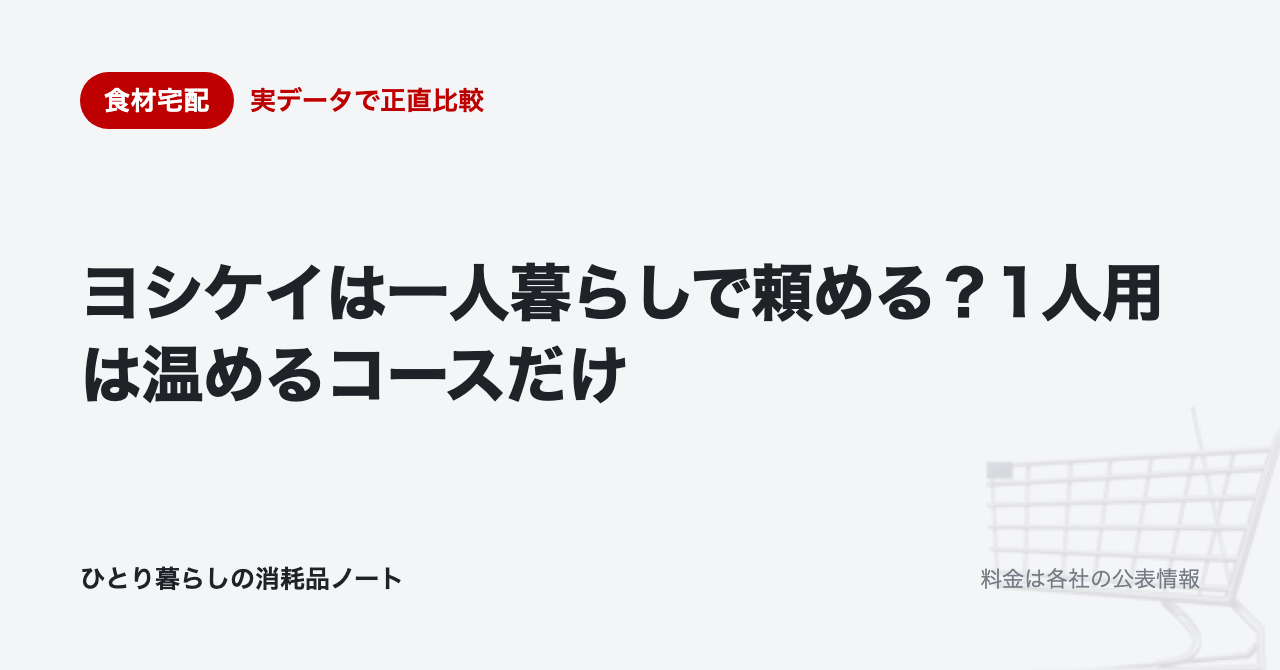
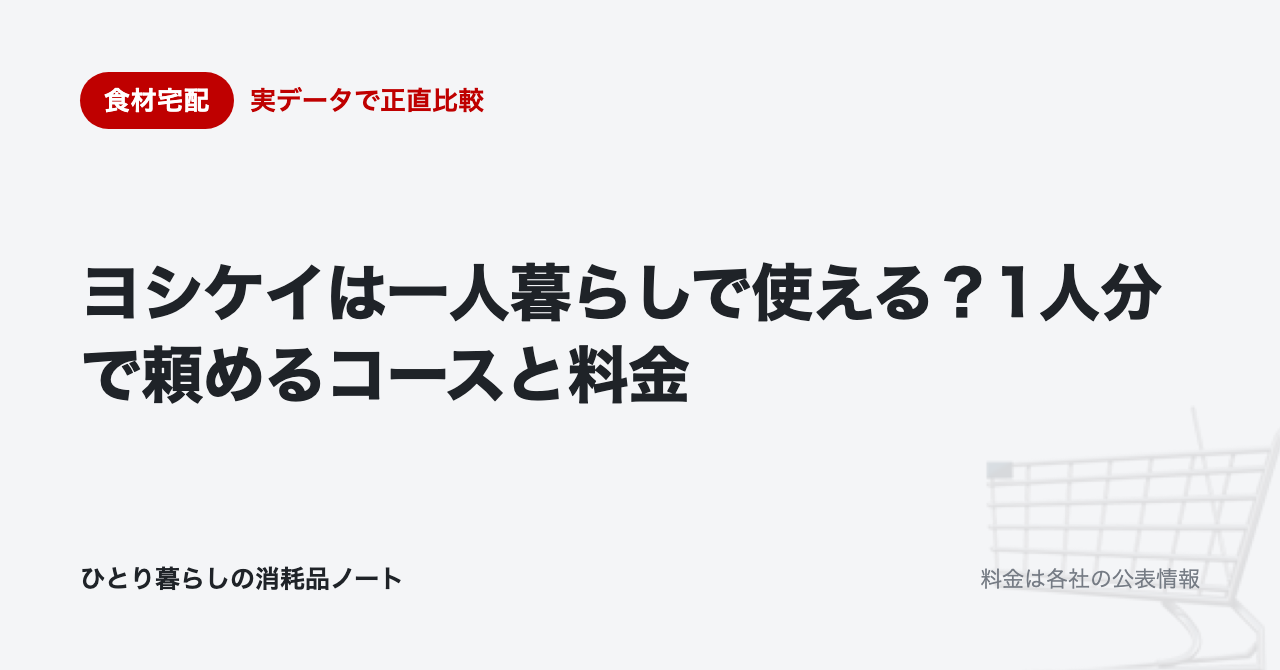
ヨシケイ記事を添削（72点）で改稿。重複を削って結論を一本化
最優先指摘は「地域差の説明を1回に集約し、結論を温めるなら1人用・
作るなら2人用に固定する」だったので、足すより削る方向で直した。

- 冒頭で結論を先出し（温めるなら1人用／作るなら2人用）
- 地域差は冒頭で一度宣言し、料金の節に4項目（コース名・料金・締切・
  取り扱い）としてまとめた。3か所に散っていた説明を1か所へ
- 「公式サイトで見つけられませんでした」の繰り返しを削除。
  表の空欄は「地域のページで確認」に変え、次の行動とセットにした
- FAQを本文の焼き直しから、本文で扱っていない疑問へ入れ替え
  （キャンセル・置き配の中身・地域で頼めないコース・配達時間・お試しの再利用）
- 「向く人／向かない人」→「使いやすいケース／使いにくいケース」
- 「効く」「面倒なところ」を具体的な記述に
- 他社比較への導線を1行に縮小
- CTAの直前に、郵便番号を入れる理由を置いた
- タイトルを「ヨシケイは一人暮らしで使える？1人分で頼めるコースと料金」に

diff --git a/pins/ledger.html b/pins/ledger.html
@@ -159,7 +159,7 @@ code,.mono{font-family:"IBM Plex Mono",ui-monospace,monospace;font-variant-numer
 <section class="day" data-slug="yoshikei" data-day="1">
 <header class="dayhead">
 <span class="daynum">01</span>
-<div class="daytitle"><h2>ヨシケイは一人暮らしで頼める？1人用は温めるコースだけ</h2></div>
+<div class="daytitle"><h2>ヨシケイは一人暮らしで使える？1人分で頼めるコースと料金</h2></div>
 <span class="daycount"><b data-done>0</b>/2</span>
 </header>
 <div class="shared">

diff --git a/content/yoshikei.md b/content/yoshikei.md
@@ -1,79 +1,83 @@
 ---
-title: ヨシケイは一人暮らしで頼める？1人用は温めるコースだけ
-description: ヨシケイを一人暮らしで使えるか、公式サイトの案内を整理しました。1人分から頼めるのはレンジや湯せんで温めるコースと冷凍弁当で、包丁を使うミールキットは2人用からです。コース名や締め切りは地域の販売会社ごとに違うため、確かめ方も書いています。
+title: ヨシケイは一人暮らしで使える？1人分で頼めるコースと料金
+description: ヨシケイは一人暮らしでも利用できます。ただし1人分から頼めるのは温めるコースと冷凍弁当で、包丁を使うミールキットは2人用からです。地域の販売会社ごとに違う点と、自分の地域の料金を確かめる手順を公式サイトの情報だけで整理しました。
 category: 食材宅配
 date: '2026-09-16'
-updated: '2026-09-16'
+updated: '2026-09-17'
 keyword: ヨシケイ
 keywordAlt: [食材宅配]
 ---
 
-ヨシケイを一人暮らしで頼もうとすると、最初に人数でつまずきます。
+ヨシケイは一人暮らしでも利用できます。ただし、**1人分から頼めるコースと、2人用からしか頼めないコースがあります。**
 
-**1人分から頼めるのは、レンジや湯せんで温めるコースと冷凍弁当です。** 包丁を使って作るミールキットは、2人用からです。
+先に結論です。
 
-この記事は、ヨシケイの公式サイトに書かれていることの整理です。**私はヨシケイを利用していません。** 味やメニューの感想は書いていません。
+```
+温めるなら   1人用（Yデリ・冷凍弁当3種）
+作るなら    2人用から（カットミールなどのミールキット）
+```
 
-料金についても先に断っておきます。全国共通の価格表を公式サイトで見つけられませんでした。ヨシケイは地域の販売会社が配達する仕組みで、コースの名前も価格も地域で違います。この記事では金額そのものより、**自分の地域の価格を確かめる手順**を書きます。
+ひとつ、前提を断っておきます。**ヨシケイは地域の販売会社が運営する仕組みで、コース名・料金・注文締切・取り扱いメニューが地域によって違います。** そのためこの記事では全国共通の価格を断定せず、自分の地域の料金を確かめる手順を書きます。
 
-## ヨシケイで1人分から頼めるもの
+この記事は公式サイトの情報の整理です。**私はヨシケイを利用していません。** 味やメニューの感想は書いていません。
 
-| メニュー | 調理のしかた | 1人分から | 公式サイトの価格表示 |
-|---|---|---|---|
-| Yデリ（地域によりタイムリーミール） | レンジ・湯せんで約10分 | 頼める | 見つかりませんでした |
-| シンプルミール（冷凍弁当） | 温めるだけ | 頼める | 1食あたり約430円 |
-| ベジミール（冷凍弁当） | 温めるだけ | 頼める | 見つかりませんでした |
-| ヘルシーミール（冷凍弁当） | 温めるだけ | 頼める | 見つかりませんでした |
-| ミールキット（カットミールなど） | 10〜15分の調理 | **2人用から** | 見つかりませんでした |
+## ヨシケイで1人分から頼めるコース
 
-> **出どころ**：ヨシケイ本部の「単品・冷凍弁当」「Smile & table」、ヨシケイ茨城の「お1人様からご利用いただけるメニュー」、ヨシケイ高知の案内です。2026年9月16日に確認しました。
->
-> **メニュー名と取り扱いは、地域の販売会社で違います。** 同じ「温めるコース」が、本部のサイトではタイムリーミール、高知や茨城ではYデリという名前で載っていました。自分の地域で何が頼めるかは、郵便番号を入れて確認してください。
+1人分から注文できるのは、次の4つです。
 
-冷凍弁当が3種類あるので、**一人暮らしで選べる幅は「温めるだけ」の中では広い**です。逆に、自分で作るコースを1人分で頼むことはできません。
+| メニュー | 調理のしかた | 公式に載っていた価格 |
+|---|---|---|
+| Yデリ（地域によりタイムリーミール） | レンジ・湯せんで約10分 | 地域のページで確認 |
+| シンプルミール（冷凍弁当） | 温めるだけ | 1食あたり約430円 |
+| ベジミール（冷凍弁当） | 温めるだけ | 地域のページで確認 |
+| ヘルシーミール（冷凍弁当） | 温めるだけ | 地域のページで確認 |
 
-## 作るミールキットは2人用からです
+冷凍弁当は**シンプルミール・ベジミール・ヘルシーミール**の3種類です。自炊せずに済ませたい一人暮らしなら、この3つとYデリが候補になります。
+
+Yデリはレンジか湯せんで、10分程度で3品そろう形です。冷凍弁当は主食なしのおかず弁当で、1食単位で頼めます。
+
+## ミールキットは2人用から
 
 ヨシケイ高知の案内には「1人用はすまいるごはんの[Yデリ]をご用意しております」と書かれています。5人以上で使う場合は、2〜4人用を組み合わせて注文する形です。
 
 つまり人数の単位は、1人用（温めるコース・冷凍弁当）か、2〜4人用（作るコース）に分かれています。
 
-一人暮らしで、カットミールのような作るコースを使いたい場合は、2人用を頼むしかありません。費用も食材の量も2人分です。
+**一人暮らしでカットミールのような作るコースを使いたい場合は、2人用を頼むしかありません。** 費用も食材の量も2人分になります。
 
-## コース名も締め切りも、地域の販売会社で違います
+## ヨシケイの料金は地域によって違う
 
-ここが一人暮らしの人にとって面倒なところです。私が公式サイトを見た範囲でも、地域によって書かれている内容が違いました。
+冒頭で断ったとおり、ヨシケイは地域の販売会社ごとに条件が変わります。私が公式サイトを見た範囲では、次の4つに差がありました。
 
 ```
-温めるコースの名前
-  ヨシケイ本部       タイムリーミール
-  ヨシケイ高知・茨城   Yデリ
-
-注文の締め切り
-  お試し5daysのページ  配達日の前週水曜17時まで
-  ヨシケイ大宮        前週水曜が注文締切。締切後も中3日あれば対応
-
-価格
-  全国共通の価格表は、公式サイトで見つけられませんでした
+コース名     本部はタイムリーミール、高知と茨城はYデリ（同じ温めるコース）
+料金        全国共通の価格表は確認できず。公式に金額が載っていたのは
+            冷凍弁当のシンプルミール（1食あたり約430円）だけ
+注文締切     お試し5daysのページは前週水曜17時まで
+            ヨシケイ大宮は前週水曜が注文締切で、締切後も中3日あれば対応
+取り扱い     1人分から頼めるメニューの並びが、販売会社のページごとに違う
 ```
 
-**自分の地域のページを開くのが先です。** 郵便番号でエリアと販売会社が判別される仕組みなので、そこで表示された価格とメニューが、自分が払う金額です。
+**料金を知る手順は1つです。郵便番号を入れて、自分の地域のページを開いてください。** 郵便番号でエリアと販売会社が判別される仕組みなので、そこに表示された価格が自分が払う金額です。
 
-## 入会金と配達料は、公式サイトで「なし」と書かれています
+他社と同じ表に並べて比べたい場合、ヨシケイだけは全国一律の数字が出せません。そこが比較しづらい点です。
+
+## 一人暮らしで知っておきたい配達と置き配の仕組み
 
 ここは全国共通で書かれていた項目です。
 
-- **入会金と配達料はかかりません。** メニューブックも無料で届くと書かれています
+- **入会金と配達料はかかりません。** メニューブックも無料で届きます
 - **配達は毎日**で、保冷性のあるクールBOXに食材と保冷剤を入れて届きます
-- **置き配ができます。** 不在の場合は鍵付きのあんしんBOXを貸してもらえます
+- **置き配ができます。** 不在の場合は、鍵付きのあんしんBOXを貸してもらえます
 - 配達の時間は、午前10時から午後5時ごろの間です
 - 1日単位で頼めるメニューと、1週間おまかせのメニューがあります
 
-一人暮らしで効くのは、**毎日その日の分だけ届く**点です。冷蔵庫が小さくても置き場所に困りません。逆に、平日の日中に受け取る場所がないと使いにくい仕組みです。
+一人暮らしでメリットになりやすいのは、**毎日その日の分だけ届く**ことです。冷蔵庫が小さくても、食材をまとめて保管する必要がありません。
 
-## お試し5daysは、初めての人だけです
+逆に、平日の日中に受け取れない場合は、あんしんBOXを置くスペースが必要になります。玄関前に物を置けない住まいだと使いにくい仕組みです。
 
-公式サイトのお試し5daysのページに書かれている条件はこうです。
+## お試し5daysは一人暮らしでも使える
+
+公式サイトのお試し5daysのページに書かれている条件です。
 
 - **ヨシケイをはじめて利用する人に限られます**
 - 通常価格の最大半額です
@@ -81,61 +85,56 @@ keywordAlt: [食材宅配]
 - 利用人数を選んで申し込みます
 - 配達できるかは、郵便番号で判別されます
 
-金額は地域で変わるので、**自分の郵便番号で表示された価格を見てください。**
+人数を選んで申し込む形なので、一人暮らしでも使えます。ただし価格は地域で変わるため、**表示される金額は郵便番号を入れるまで分かりません。**
+
+申し込む前に確かめるのは、金額と、自分の地域で頼めるコースの2つです。どちらも郵便番号を入れた時点で表示されます。
 
 → [お試し5daysの価格と選べるコースを確認する](https://px.a8.net/svt/ejp?a8mat=4BA9HF+DKSX7E+1QM6+IA7ZL)
 
-## 一人暮らしでヨシケイが向く人・向かない人
+## 一人暮らしで使いやすいケース・使いにくいケース
 
-**向く人**
+**使いやすいケース**
 
 - 温めるだけでよく、1食から頼みたい
 - 冷蔵庫が小さく、まとめ買いを置く場所がない
-- 平日の日中に受け取れる、または置き配ができる
+- 平日の日中に受け取れる、または玄関前に置き配できる
 
-**向かない人**
+**使いにくいケース**
 
 - 包丁を使うミールキットを、1人分だけ頼みたい
 - 全国一律の価格で、他社と並べて比べたい
 - 週末にまとめて届いてほしい
 
-**「作る」より「温める」に寄せたい一人暮らしなら、選択肢に入ります。** 作る前提で1人分だけ頼みたい場合は、この仕組みでは合いません。
+**「作る」より「温める」に寄せたい一人暮らしなら、条件は合います。** 作る前提で1人分だけ頼みたい場合は、この仕組みでは合いません。
 
-## 他の食材宅配と比べるとどうか
-
-ヨシケイは毎日配達で、その日の分だけ届く仕組みです。一方、週1回まとめて届くサービスや、調理済みの惣菜が届くサービスもあります。
-
-一人暮らしでは、料金より先に**届く量と消費期限**で向き不向きが決まります。3社を並べて計算した結果は、[食材宅配3社を一人暮らしと二人暮らしで比較した記事](/articles/meal-delivery)にまとめました。二人暮らしだと順位が入れ替わります。
+一人暮らしと二人暮らしで料金や使い勝手を比べた結果は、[食材宅配3社の比較](/articles/meal-delivery)にまとめています。
 
 ## よくある質問
 
-**Q. 一人暮らしでも申し込めますか？**
-A. 申し込めます。ただし1人分から頼めるのは、Yデリ（地域によりタイムリーミール）などの温めるコースと、冷凍弁当のシンプルミール・ベジミール・ヘルシーミールです。
+**Q. 注文したあとにキャンセルできますか？**
+A. お試し5daysのページでは、配達日の前週水曜17時までとされています。締め切りは地域で違い、ヨシケイ大宮は前週水曜が注文締切で、締切後も配達日まで中3日あれば対応すると案内しています。自分の地域のページで確認してください。
 
-**Q. カットミールのような作るコースを1人で頼めますか？**
-A. 1人用の設定はありません。ヨシケイ高知の案内では、1人用はYデリ、それ以外は2〜4人用を組み合わせる形で説明されています。1人で使う場合は2人用を頼むことになります。
+**Q. 置き配は何を使いますか？**
+A. 鍵付きのあんしんBOXを貸してもらえます。食材は保冷性のあるクールBOXに保冷剤と一緒に入って届きます。
 
-**Q. 料金はどこで分かりますか？**
-A. 郵便番号を入れて、自分の地域の販売会社のページを開いてください。全国共通の価格表は公式サイトで見つけられませんでした。公式に金額が載っていたのは、冷凍弁当のシンプルミール（1食あたり約430円）だけです。
+**Q. 地域によって頼めないコースはありますか？**
+A. 公式サイトで見た範囲では、1人分から頼めるメニューの並びが販売会社のページごとに違いました。同じ温めるコースでも、本部ではタイムリーミール、高知と茨城ではYデリという名前でした。
 
-**Q. 入会金や配達料はかかりますか？**
-A. 公式サイトには、入会金と配達料はかからないと書かれています。メニューブックも無料です。
+**Q. 配達は何時ごろ来ますか？**
+A. 午前10時から午後5時ごろの間で、毎日ほぼ同じ時間帯に届くと書かれています。
 
-**Q. 日中に家にいなくても受け取れますか？**
-A. 置き配に対応しています。不在の場合は鍵付きのあんしんBOXを貸してもらえると書かれています。
-
-**Q. 毎日頼まないといけませんか？**
-A. 1日単位で頼めるメニューと、1週間おまかせのメニューの2通りです。注文やキャンセルの締め切りは地域で違うため、自分の地域のページで確認してください。
+**Q. お試し5daysは2回使えますか？**
+A. はじめて利用する人に限られると書かれています。過去に利用したことがある場合は対象外です。
 
 ## まとめ
 
-- **1人分から頼めるのは、温めるコース（Yデリ・タイムリーミール）と冷凍弁当3種類**です
+- ヨシケイは一人暮らしでも利用できます
+- **1人分から頼めるのは、Yデリと冷凍弁当3種類**です
 - **作るミールキットは2人用から**で、1人で使うなら2人用を頼むことになります
-- コース名・締め切り・価格は**地域の販売会社ごとに違います**
-- 入会金と配達料はかからず、置き配にも対応しています
-- お試し5daysは、はじめて利用する人だけが使えます
+- コース名・料金・注文締切・取り扱いメニューは**地域の販売会社ごとに違います**
+- 料金は、郵便番号を入れて自分の地域のページで確認します
 
-一人暮らしでヨシケイを選ぶかどうかは、**作りたいかどうかで決まります。** 温めるだけでいいなら1食から頼めます。作りたいなら、2人用を引き受けるかどうかの判断です。
+**ヨシケイは一人暮らしでも使えます。ただし「温める」なら1人用、「作る」なら2人用です。**
 
 ---
 
@@ -150,4 +149,4 @@ A. 1日単位で頼めるメニューと、1週間おまかせのメニューの
 - お試し5daysの条件・配達時間・キャンセル期限：[ヨシケイ お試し5days](https://www.yoshikei-dvlp.co.jp/shishoku/)
 - 注文締切とキャンセルの扱い（地域の例）：[株式会社ヨシケイ大宮 Q&A](https://www.yoshikei-dvlp.co.jp/omy/qa.php)
 
-*2026年9月16日に公式サイトで確認した内容です。コース名・価格・締め切りは地域の販売会社で異なり、変更されることもあります。申し込む前に、自分の地域のページで最新の条件を確認してください。筆者はヨシケイを利用しておらず、味やメニューの評価は含みません。*
+*2026年9月17日に公式サイトで確認した内容です。コース名・価格・締め切りは地域の販売会社で異なり、変更されることもあります。申し込む前に、自分の地域のページで最新の条件を確認してください。筆者はヨシケイを利用しておらず、味やメニューの評価は含みません。*

diff --git a/pins/TODO.md b/pins/TODO.md
@@ -5,7 +5,7 @@
 
 投稿したら「済」にチェックを入れて進捗を管理できます。
 
-## ヨシケイは一人暮らしで頼める？1人用は温めるコースだけ
+## ヨシケイは一人暮らしで使える？1人分で頼めるコースと料金
 
 - ボード: **食材宅配**
 - リンク先: https://hitorikurashi-note.vercel.app/articles/yoshikei
